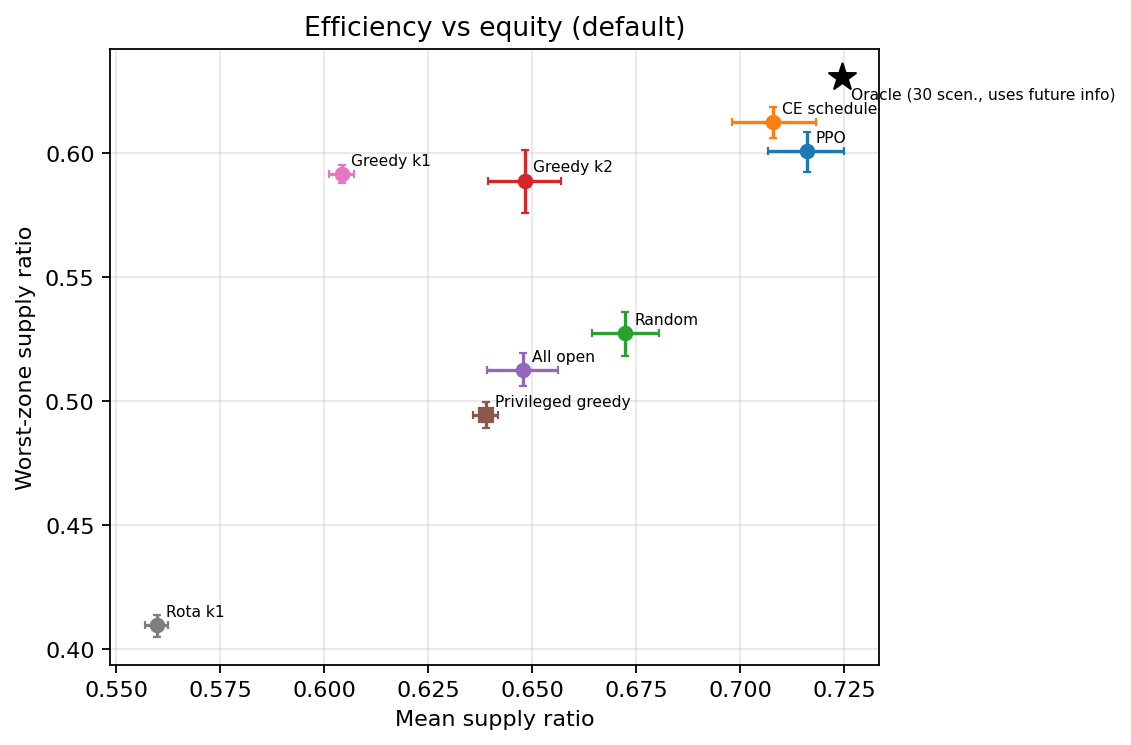
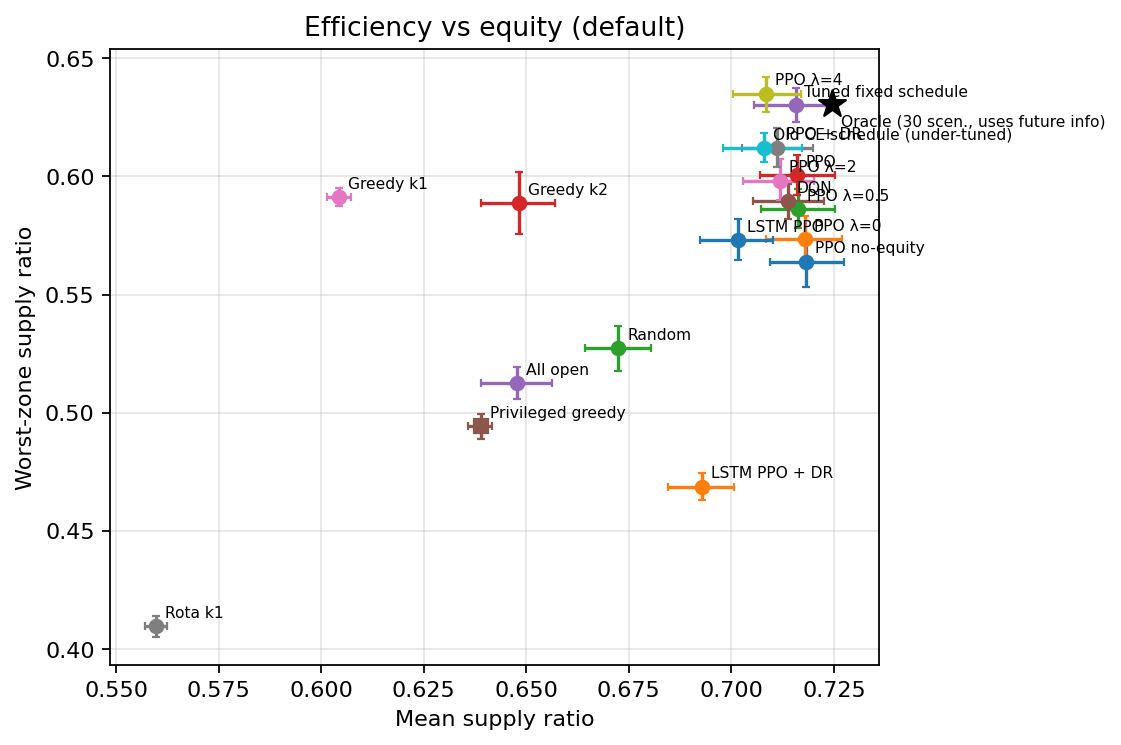
M3: refresh plots and slide outline on final v2 results (tuned schedule baseline)

diff --git a/plots/make_plots.py b/plots/make_plots.py
@@ -28,6 +28,7 @@ p.add_argument("--condition", default="default", help="condition used for the ba
 p.add_argument("--baseline", default="ce_schedule", help="method family that differences are measured against")
 p.add_argument("--exclude-methods", default="", help="comma-separated families to hide")
 p.add_argument("--include-scarce", action="store_true", help="keep the degenerate 'scarce' condition in the heatmap")
+p.add_argument("--lambda-sweep", action="store_true", help="draw the PPO lambda sweep from summary.csv (families ppo_lam*)")
 a = p.parse_args()
 
 summary_path = a.summary or os.path.join(a.results_dir, "summary.csv")
@@ -43,7 +44,8 @@ S = S[~S.family.isin(hide)]
 if a.condition not in set(S.condition):
     sys.exit(f"condition '{a.condition}' not in {summary_path}; available: {sorted(set(S.condition))}")
 
-LABEL = {"ppo": "PPO", "ce_schedule": "CE schedule", "greedy_k1": "Greedy k1", "greedy_k2": "Greedy k2",
+LABEL = {"ppo": "PPO", "ce_schedule": "Old CE schedule (under-tuned)", "ce_tuned": "Tuned fixed schedule",
+         "ppo_lam0": "PPO λ=0", "ppo_lam0.5": "PPO λ=0.5", "ppo_lam2": "PPO λ=2", "ppo_lam4": "PPO λ=4", "greedy_k1": "Greedy k1", "greedy_k2": "Greedy k2",
          "priv_greedy_k1": "Privileged greedy", "random": "Random", "all_open": "All open", "rota_k1": "Rota k1",
          "dqn": "DQN", "ppo_noequity": "PPO no-equity", "ppo_noforecast": "PPO no-forecast",
          "rec": "LSTM PPO", "rec_dr": "LSTM PPO + DR", "ppo_dr": "PPO + DR", "a2c": "A2C", "ppo_long": "PPO 500k"}
@@ -87,6 +89,29 @@ else:
     print(f"[skip] oracle point: {oracle_path} not found")
 ax.set_xlabel("Mean supply ratio"); ax.set_ylabel("Worst-zone supply ratio"); ax.set_title(f"Efficiency vs equity ({a.condition})"); ax.grid(alpha=.3)
 save(fig, "scatter_mean_vs_worst.png")
+
+# 2b. lambda sweep straight from summary.csv (families ppo_lam0, ppo_lam0.5, ppo (=lambda 1), ppo_lam2, ppo_lam4)
+if a.lambda_sweep:
+    LAM = [("ppo_lam0", 0.0), ("ppo_lam0.5", 0.5), ("ppo", 1.0), ("ppo_lam2", 2.0), ("ppo_lam4", 4.0)]
+    L = D.set_index("family"); pts = [(lm, L.loc[f]) for f, lm in LAM if f in L.index]
+    if len(pts) >= 3:
+        fig, ax = plt.subplots(figsize=(6.4, 5))
+        xs = [r.mean_sr for _, r in pts]; ys = [r.min_zone_sr for _, r in pts]
+        ax.plot(xs, ys, "-", color="#999", zorder=1)
+        for lm, r in pts:
+            ax.errorbar(r.mean_sr, r.min_zone_sr, xerr=[[r.mean_sr - r.mean_sr_lo], [r.mean_sr_hi - r.mean_sr]],
+                        yerr=[[r.min_zone_sr - r.min_zone_sr_lo], [r.min_zone_sr_hi - r.min_zone_sr]], fmt="o", color="#4C78A8", capsize=2, zorder=2)
+            ax.annotate(f"λ={lm:g} ({int(r.n_seeds)} seeds)", (r.mean_sr, r.min_zone_sr), textcoords="offset points", xytext=(5, -11), fontsize=7)
+        for f, nm, c in [(a.baseline, lab(a.baseline), "#F58518"), ("dqn", "DQN", "#54A24B"), ("ppo_dr", "PPO + DR", "#B279A2")]:
+            if f in L.index:
+                r = L.loc[f]; ax.errorbar(r.mean_sr, r.min_zone_sr, xerr=[[r.mean_sr - r.mean_sr_lo], [r.mean_sr_hi - r.mean_sr]],
+                                          yerr=[[r.min_zone_sr - r.min_zone_sr_lo], [r.min_zone_sr_hi - r.min_zone_sr]], fmt="s", color=c, capsize=2)
+                ax.annotate(nm, (r.mean_sr, r.min_zone_sr), textcoords="offset points", xytext=(5, 4), fontsize=7)
+        ax.set_xlabel("Mean supply ratio"); ax.set_ylabel("Worst-zone supply ratio")
+        ax.set_title(f"Equity weight λ in the PPO reward ({a.condition}); a reward penalty, not a constraint", fontsize=8); ax.grid(alpha=.3)
+        save(fig, "pareto_lambda.png")
+    else:
+        print("[skip] lambda sweep: fewer than 3 lambda families in summary")
 
 # 3. pareto from an external sweep (M2), if given
 if a.pareto:
@@ -153,6 +178,6 @@ md = ["| Method | seeds | mean supply [95% CI] | worst zone [95% CI] | hidden in
 for _, r in T.iterrows():
     md.append(f"| {lab(r.family)} | {int(r.n_seeds)} | {r.mean_sr:.3f} [{r.mean_sr_lo:.3f}, {r.mean_sr_hi:.3f}] | "
               f"{r.min_zone_sr:.3f} [{r.min_zone_sr_lo:.3f}, {r.min_zone_sr_hi:.3f}] | {'yes' if r.uses_hidden_info else ''} |")
-open(os.path.join(a.out_dir, "results_table.md"), "w").write(f"Condition: {a.condition}. Source: {summary_path}\n\n" + "\n".join(md) + "\n")
+open(os.path.join(a.out_dir, "results_table.md"), "w", encoding="utf-8").write(f"Condition: {a.condition}. Source: {summary_path}\n\n" + "\n".join(md) + "\n")
 saved += [os.path.join(a.out_dir, "results_table.csv"), os.path.join(a.out_dir, "results_table.md")]
 print("wrote:\n  " + "\n  ".join(saved))

diff --git a/presentation/outline.md b/presentation/outline.md
@@ -1,67 +1,83 @@
 # Slide content draft (M3, T3.4) - 12 slides
 
-**Status: DRAFT, 2026-11-01.** Numbers come from `results_v2/` and `docs/PROJECT_LOG.md` only. `TBD` = waiting for M1's final evaluation or M2's models; do not present TBD cells. Rule 8 of the plan: no number on a slide unless it is in `results*/` and the log.
-Figures: regenerate with `python plots/make_plots.py --results-dir <final dir> --out-dir presentation/figs`.
+**Status: UPDATED 2026-11-02 on M1's final results.** Numbers come only from `results_v2/summary.csv`, `results_v2/paired_vs_ce_tuned.csv`, `results_v2/oracle.csv`, `README.md` (M1's results table) and `docs/PROJECT_LOG.md`. `NO DATA` = nothing exists in the repo for it: cut the slide or the claim.
+Figures: `plots/out/` (made by `python plots/make_plots.py --baseline ce_tuned --lambda-sweep`). Significance ("better/worse/tie") is M1's paired 95% CI, not my heatmap colours.
+**Headline for the talk:** a tuned fixed daily schedule is hard to beat when conditions match its tuning; RL helps only under some shifts. Do NOT say "RL beats optimised scheduling" without "under the shifts we tested".
 
 ---
 ## 1. Problem: intermittent water supply (IWS) and inequity
 - Many cities supply water only some hours a day; households fill roof tanks when water arrives.
 - Who gets water first decides who goes without. Tanks help households but can widen inequity (Hendrickson & Sela 2024, abstract).
 - Question: can a learned policy schedule zones to serve more water AND protect the worst-off zone?
-- *Notes:* use one cited real example (TODO: M3 to source from Hubli-Dharwad / CSE Chennai after reading them; none verified yet).
+- *Notes:* a cited real example is still needed (none verified yet).
 
 ## 2. Related work and the gap
-- Optimised schedules exist (Hendrickson & Sela: Bayesian optimisation of valve schedules; Kurian et al.: MINLP). Both open-loop optimisation.
-- RL has been used for valves and pumps (Hu 2020 contamination; Hu 2023 MADDPG; DRL-EPANET), but none we found handles intermittent supply + equity.
-- Our statement: "In our search we did not find..." (never "first"). Unchecked: the "CORE" household-refill preprint.
-- Source: `docs/related_work.md` (abstract-level only until someone reads the full texts).
+- Optimised schedules exist (Hendrickson & Sela: Bayesian optimisation of valve schedules; Kurian et al.: MINLP): open-loop optimisation.
+- RL for valves/pumps exists (Hu 2020 contamination; Hu 2023 MADDPG; DRL-EPANET), none that we found handles intermittent supply + equity.
+- Wording: "In our search we did not find..." never "first". Papers are checked at abstract level only (`docs/verify/`, `docs/VERIFY_PAPERS.md`); two names from the brief could not be found.
+- Source: `docs/related_work.md`.
 
 ## 3. Our environment and assumptions
-- EPANET Net3, 4 zones, hourly open/close, 3-day episodes, daily source budget known one day ahead.
-- Hidden household tanks (the agent cannot see them). Reward: unmet demand + end-of-day worst-zone bonus.
-- Simulation only; tank sizes, surge factor and budgets are assumptions (`docs/assumptions.md`). Tank size 0.3-0.8 days is likely below typical real storage.
+- EPANET Net3, 4 zones, hourly open/close, 3-day episodes, daily source budget known one day ahead; hidden household tanks.
+- Reward: unmet demand + end-of-day worst-zone bonus (weight lambda).
+- Simulation only; tank sizes, surge factor, budgets are assumptions (`docs/assumptions.md`). Tank size 0.3-0.8 days is probably below typical real storage (vendor guidance ~2 days; no survey found).
 
-## 4. Why the first version was too easy, and v2
-- v1: mean supply is capped near 0.773 by water volume; PPO 0.767 was 99% of the ceiling; pressure thresholds 10/20/30 m gave identical results.
-- v2 (`demand_scale=8`): hydraulics bind; baselines spread 0.56-0.72; pressure thresholds now matter (10 m 0.703, 20 m 0.716, 30 m 0.724).
+## 4. Why v1 was too easy; v2
+- v1: mean supply capped near 0.773 by water volume; PPO 0.767 = 99% of the ceiling; pressure thresholds 10/20/30 m gave identical results.
+- v2 (`demand_scale=8`): hydraulics bind; pressure thresholds now matter (10 m 0.703, 20 m 0.716, 30 m 0.724 for PPO, early v2 run).
 - Message: we found and fixed a weak benchmark before drawing conclusions.
 
-## 5. Methods compared
-- Random, all-open, rota, greedy k1/k2 (realistic); privileged greedy (reads hidden tanks, not deployable); CE fixed schedule (optimised open-loop, closest to the literature); clairvoyant oracle (hindsight bound, not deployable); PPO, DQN (TBD), LSTM PPO +/- domain randomisation (TBD).
-- Honest labels: CE schedule is cross-entropy search, not Bayesian optimisation.
+## 5. Methods compared (seeds in brackets)
+- Heuristics: random, all-open, rota, greedy k1/k2; privileged greedy (reads hidden tanks, not deployable).
+- **Tuned fixed daily schedule** (`ce_tuned`: cross-entropy search, 40 iterations, population 60, 3 runs). It replaced the earlier under-tuned CE schedule (1 run). Not Bayesian optimisation.
+- RL: PPO (5), PPO+domain randomisation (5), PPO no-equity (5), DQN (5), LSTM PPO (3), LSTM PPO+DR (3), lambda sweep 0/0.5/1/2/4 (2-5).
+- Clairvoyant oracle: hindsight upper bound, 30 scenarios, uses the future, not deployable.
 
-## 6. Main result table (default condition, v2)
+## 6. Main result (default test set, 100 scenarios)
 | Method | mean supply [95% CI] | worst zone [95% CI] |
 |---|---|---|
-| PPO (5 seeds) | 0.716 [0.707, 0.725] | 0.601 [0.592, 0.609] |
-| CE schedule | 0.708 [0.698, 0.718] | 0.612 [0.606, 0.619] |
-| Random | 0.672 | 0.527 |
-| Greedy k1 | 0.604 | 0.591 |
-- Source: `results_v2/summary.csv` via `plots/out/results_table.md`. CE schedule is 1 seed here; TBD: M2's 3-seed rerun, then compare vs the best realistic baseline, not greedy k1.
-- Takeaway: PPO is not clearly better than a tuned fixed schedule; worse on worst-zone.
+| Tuned fixed schedule (3) | 0.716 [0.706, 0.725] | 0.630 [0.623, 0.638] |
+| PPO (5) | 0.716 [0.707, 0.725] | 0.601 [0.592, 0.609] |
+| PPO + DR (5) | 0.711 [0.703, 0.720] | 0.612 [0.604, 0.621] |
+| DQN (5) | 0.714 [0.705, 0.723] | 0.590 [0.582, 0.597] |
+| PPO no-equity (5) | 0.718 [0.709, 0.727] | 0.564 [0.553, 0.574] |
+| Old CE schedule (1) | 0.708 [0.698, 0.717] | 0.612 [0.606, 0.618] |
+| Random | 0.672 [0.664, 0.680] | 0.527 [0.518, 0.537] |
+- Paired vs the tuned schedule (M1): PPO return -0.52 [-0.59, -0.46] (worse); mean supply tie (0.000 [-0.001, 0.001]); worst zone -0.030 [-0.031, -0.028] (worse).
+- Takeaway: on the conditions the schedule was tuned for, PPO matches it on mean supply and loses on worst-zone and on return. Figure: `bars_ci.png`, table: `results_table.md`.
+- Caveat: the CIs are over test scenarios; the training-seed spread is separate (`*_seed_sd` columns). The 3-run schedule and 2-seed lambda points have limited seed coverage.
 
-## 7. Regret vs the oracle (Gate 1)
-- 30 test scenarios: oracle return -8.49, PPO -9.48, CE -9.83, random -14.0. Mean supply: oracle 0.725, PPO 0.719, CE 0.711 (ceiling 0.775). Worst zone: oracle 0.631, PPO 0.601, CE 0.612. (PROJECT_LOG, Gate 1 entry)
-- Gate rule failed on mean/worst-zone thresholds (+0.013, +0.019); PPO closes ~26% of the CE-to-oracle return gap.
-- Caveat: the oracle sees the future, so part of the gap is unreachable.
+## 7. Regret vs the oracle
+- README return: oracle -8.49 (30 scenarios), tuned schedule -9.15, PPO -9.67, DQN -10.02, random -14.33. Mean supply: oracle 0.725 vs 0.716; worst zone: oracle 0.631 vs tuned 0.630.
+- Caveat: the oracle row uses 30 scenarios and the others 100, so do not quote exact percentages of gap closed. The oracle sees future budgets and tank levels, so part of its lead is unreachable. The oracle was tuned for return, not worst-zone.
+- Takeaway: there is little headroom left over the tuned schedule on mean supply; some on the return objective.
 
-## 8. Equity trade-off (C2)
-- TBD: lambda sweep {0, 0.5, 1, 2, 4} and Lagrangian worst-zone constraint (M2). Plot: `--pareto` in `make_plots.py`.
-- Already known: removing the equity term lowered the worst zone by ~0.011 in v1 (5 seeds); v2 no-equity TBD.
+## 8. Equity weight (lambda sweep)
+- PPO worst zone by lambda 0 / 0.5 / 1 / 2 / 4: 0.573 / 0.586 / 0.601 / 0.598 / 0.635; mean supply 0.718 / 0.716 / 0.716 / 0.712 / 0.708 (seeds 3 / 2 / 5 / 2 / 3).
+- lambda=4 reaches the tuned schedule's worst zone (0.635 vs 0.630) for about -0.008 mean supply. Not monotone (lambda=2 below lambda=1), seeds few, intervals overlap.
+- Figure: `pareto_lambda.png`. Say "a reward penalty", NOT "constrained / Lagrangian RL" (README forbids it).
 
-## 9. Robustness and held-out ranges (C1)
-- TBD: LSTM and domain randomisation vs plain PPO on held-out alpha 2/8, scarce supply, small/large tanks. `eval_all.py` does not yet contain the held-out conditions as a set: ask M1.
-- Known v2 data: PPO alpha2 0.715, alpha8 0.701, but greedy k2 has the best worst-zone at alpha2 (0.664).
+## 9. Robustness under shift (paired return vs the tuned schedule, M1)
+| Condition | PPO | PPO+DR | DQN |
+|---|---|---|---|
+| default | worse (-0.52) | worse (-0.77) | worse (-0.86) |
+| alpha=2 | better (+1.14) | better (+1.66) | better (+2.01) |
+| alpha=8 | worse (-0.20) | tie (+0.08) | worse (-0.81) |
+| small tanks | tie (-0.15) | tie (+0.05) | better (+1.14) |
+| five days | worse | worse | worse |
+- The tuned schedule is significantly better than all three RL methods in abundant, five_days, large_tanks, noisy_demand, press10 and press30 (not shown in the table). Overall PPO is worse in 8 of 10 non-scarce conditions, better in 1 (alpha=2), tied in 1 (small tanks).
+- alpha=2 is outside the domain-randomisation training range (alpha 3-6). The schedule was tuned only on the default.
+- LSTM PPO (3 seeds) is below PPO (worst zone 0.573); LSTM+DR is far worse (0.469): report as a negative result.
+- Scarce supply: degenerate for mean supply (judge worst zone only); not used for claims here.
 
-## 10. Learning curves and sample efficiency
-- TBD: M2's `results_M2/curves_s*.csv` (needs columns `step, mean_sr`; confirm format with M2).
+## 10. Learning curves / sample efficiency
+- NO DATA: no learning-curve files exist in the repo. Cut this slide, or train/log one PPO run with periodic evaluation (needs M1 or M2).
 
 ## 11. Where RL does not help + limitations
-- Regime heatmap (`heatmap_*_vs_baseline.png`): on worst-zone, PPO is between -0.020 and +0.018 of the CE schedule across the 10 non-scarce conditions and below it in 7 of 10 (read from `heatmap_worst_vs_baseline.png`; re-check the mean-supply heatmap before saying anything about mean supply).
-- Scarce supply is degenerate (all methods 0.44-0.47): total water, not scheduling, decides.
-- Limits: one network, simulation only, unsourced assumptions, oracle small sample.
+- Heatmaps `heatmap_mean_vs_baseline.png`, `heatmap_worst_vs_baseline.png` (paired means; blue = better than the tuned schedule). On worst zone, almost every RL row is red outside alpha=2; lambda=4 is the only RL row that is non-negative in most conditions.
+- Limits: one network, simulation only, unsourced tank sizes, oracle on 30 scenarios, 2-5 training seeds per method, tuned schedule tuned on one condition, literature checked at abstract level.
 
 ## 12. Conclusion, what is new, future work
-- Contributions we can defend: an auditable IWS benchmark with a stress-tested environment, an oracle regret bound, and an honest finding that a tuned fixed schedule is near-competitive.
-- Method contribution (LSTM+DR / fairness constraint): state only what results show.
-- Future: second network, cited tank data, GNN, CVaR.
+- Defensible: an auditable IWS benchmark, a tuned open-loop baseline that is hard to beat, an honest map of where RL helps (demand surge alpha=2, some small-tank cases) and where it does not, and an equity-weight trade-off.
+- Not defensible: "first", "RL beats optimised schedules" without the shift qualifier, "Lagrangian".
+- Future: second network, cited tank data, constraint-based fairness, curves.

diff --git a/docs/assumptions.md b/docs/assumptions.md
@@ -40,9 +40,9 @@ Source of values: `iws_env.py`, `v2cfg.py`, `eval_all.py`. "Evidence" = what sup
 - v1 environment was saturated: mean supply is capped near 0.773 by water volume, so v1 mean-supply comparisons say little (see `docs/reference/improvements_for_ref.md` section 2).
 - Scarce condition: every method scores 0.44-0.47 (capped by total water). Judge only worst-zone / fairness there.
 - The clairvoyant oracle sees future budgets and tank levels; it is an upper bound, not an achievable policy. Gate 1 failed on the plan's thresholds (+0.013 mean, +0.019 worst-zone).
-- `ce_schedule` is cross-entropy search, not Bayesian optimisation, and stopped while still improving; M2 is rerunning it (3 seeds).
+- The fixed-schedule baseline is cross-entropy search, not Bayesian optimisation. The first version (`ce_schedule`, 1 run) stopped while still improving; the tuned version (`ce_tuned`, 40 iterations, population 60, 3 runs) is the one to compare against. It was tuned on the default condition only.
 - PPO vs the optimised fixed schedule is within ~0.01 mean supply and PPO is slightly worse on worst-zone (v2). No claim of "RL beats optimised scheduling" is supported.
-- `paired_vs_greedy.csv` compares against `greedy_k1`, the weakest strong baseline; compare against `ce_schedule` instead.
+- `paired_vs_greedy.csv` compares against `greedy_k1`, a weak baseline; use `paired_vs_ce_tuned.csv` (M1) instead.
 - Test seeds are 10000+ (100 scenarios default, 50 other conditions). Oracle: 30 scenarios.
 - Bootstrap CIs are over scenarios; seed-to-seed spread is reported separately (`*_seed_sd`).
 - Models were trained for different step counts in different places (150k v1, 300k v2, 500k long): always report the count.

diff --git a/docs/log_M3.md b/docs/log_M3.md
@@ -46,3 +46,9 @@ Files added (all new, no existing file edited): `docs/related_work.md`, `docs/as
 3. A seed-8 retry with its own TEMP stopped without any error or output after ~3.5 h. Cause unknown.
 4. No checkpointing: every crash loses the whole run. Suggested fixes (M1's call): retry on EpanetException, periodic `model.save`, per-environment temp folders.
 **Method used for the successful runs:** detached hidden processes, `IWS_V2=1`, one working folder per seed under `D:\projects\iws-rl_runs\` (outside the repo). Seed 5 needed a second attempt.
+
+## 2026-11-02 - plots and slide outline refreshed on M1's final results
+- `plots/make_plots.py`: new `--lambda-sweep` option (PPO lambda sweep from `summary.csv`), labels for `ce_tuned` and lambda families, UTF-8 table output. Regenerated `plots/out/` with `--baseline ce_tuned --lambda-sweep` (default condition, 18 methods, scarce excluded from heatmaps).
+- `presentation/outline.md` rewritten: the old story (PPO about equal to the CE schedule) was based on the early 1-seed CE schedule. With the tuned schedule: PPO ties on mean supply, loses on worst zone (-0.030) and return (-0.52, M1's paired CIs); RL wins only at alpha=2 (all three RL methods) and DQN at small tanks. Slide 10 (learning curves): NO DATA in repo. Oracle row uses 30 scenarios vs 100 for the rest: flagged on the slide.
+- `docs/assumptions.md`: stale statements about the CE schedule and the greedy_k1 comparison corrected.
+- Not checked: M1's `results_v2/figs/` (M1's own figures) were not compared with mine; table values match M1's README.

diff --git a/plots/out/results_table.md b/plots/out/results_table.md
@@ -2,10 +2,20 @@ Condition: default. Source: results_v2\summary.csv
 
 | Method | seeds | mean supply [95% CI] | worst zone [95% CI] | hidden info |
 |---|---|---|---|---|
+| PPO no-equity | 5 | 0.718 [0.709, 0.727] | 0.564 [0.553, 0.574] |  |
+| PPO λ=0 | 3 | 0.718 [0.709, 0.727] | 0.573 [0.563, 0.583] |  |
+| PPO λ=0.5 | 2 | 0.716 [0.707, 0.725] | 0.586 [0.578, 0.595] |  |
 | PPO | 5 | 0.716 [0.707, 0.725] | 0.601 [0.592, 0.609] |  |
-| CE schedule | 1 | 0.708 [0.698, 0.718] | 0.612 [0.606, 0.619] |  |
-| Random | 1 | 0.672 [0.664, 0.681] | 0.527 [0.518, 0.536] |  |
-| Greedy k2 | 1 | 0.648 [0.639, 0.657] | 0.589 [0.576, 0.601] |  |
+| Tuned fixed schedule | 3 | 0.716 [0.706, 0.725] | 0.630 [0.623, 0.638] |  |
+| DQN | 5 | 0.714 [0.705, 0.723] | 0.590 [0.582, 0.597] |  |
+| PPO λ=2 | 2 | 0.712 [0.703, 0.720] | 0.598 [0.590, 0.607] |  |
+| PPO + DR | 5 | 0.711 [0.703, 0.720] | 0.612 [0.604, 0.621] |  |
+| PPO λ=4 | 3 | 0.708 [0.700, 0.717] | 0.635 [0.627, 0.642] |  |
+| Old CE schedule (under-tuned) | 1 | 0.708 [0.698, 0.717] | 0.612 [0.606, 0.618] |  |
+| LSTM PPO | 3 | 0.702 [0.692, 0.710] | 0.573 [0.565, 0.582] |  |
+| LSTM PPO + DR | 3 | 0.693 [0.685, 0.701] | 0.469 [0.463, 0.474] |  |
+| Random | 1 | 0.672 [0.664, 0.680] | 0.527 [0.518, 0.537] |  |
+| Greedy k2 | 1 | 0.648 [0.639, 0.657] | 0.589 [0.576, 0.602] |  |
 | All open | 1 | 0.648 [0.639, 0.656] | 0.513 [0.506, 0.519] |  |
 | Privileged greedy | 1 | 0.639 [0.636, 0.642] | 0.494 [0.489, 0.500] | yes |
 | Greedy k1 | 1 | 0.604 [0.601, 0.607] | 0.591 [0.588, 0.595] |  |
